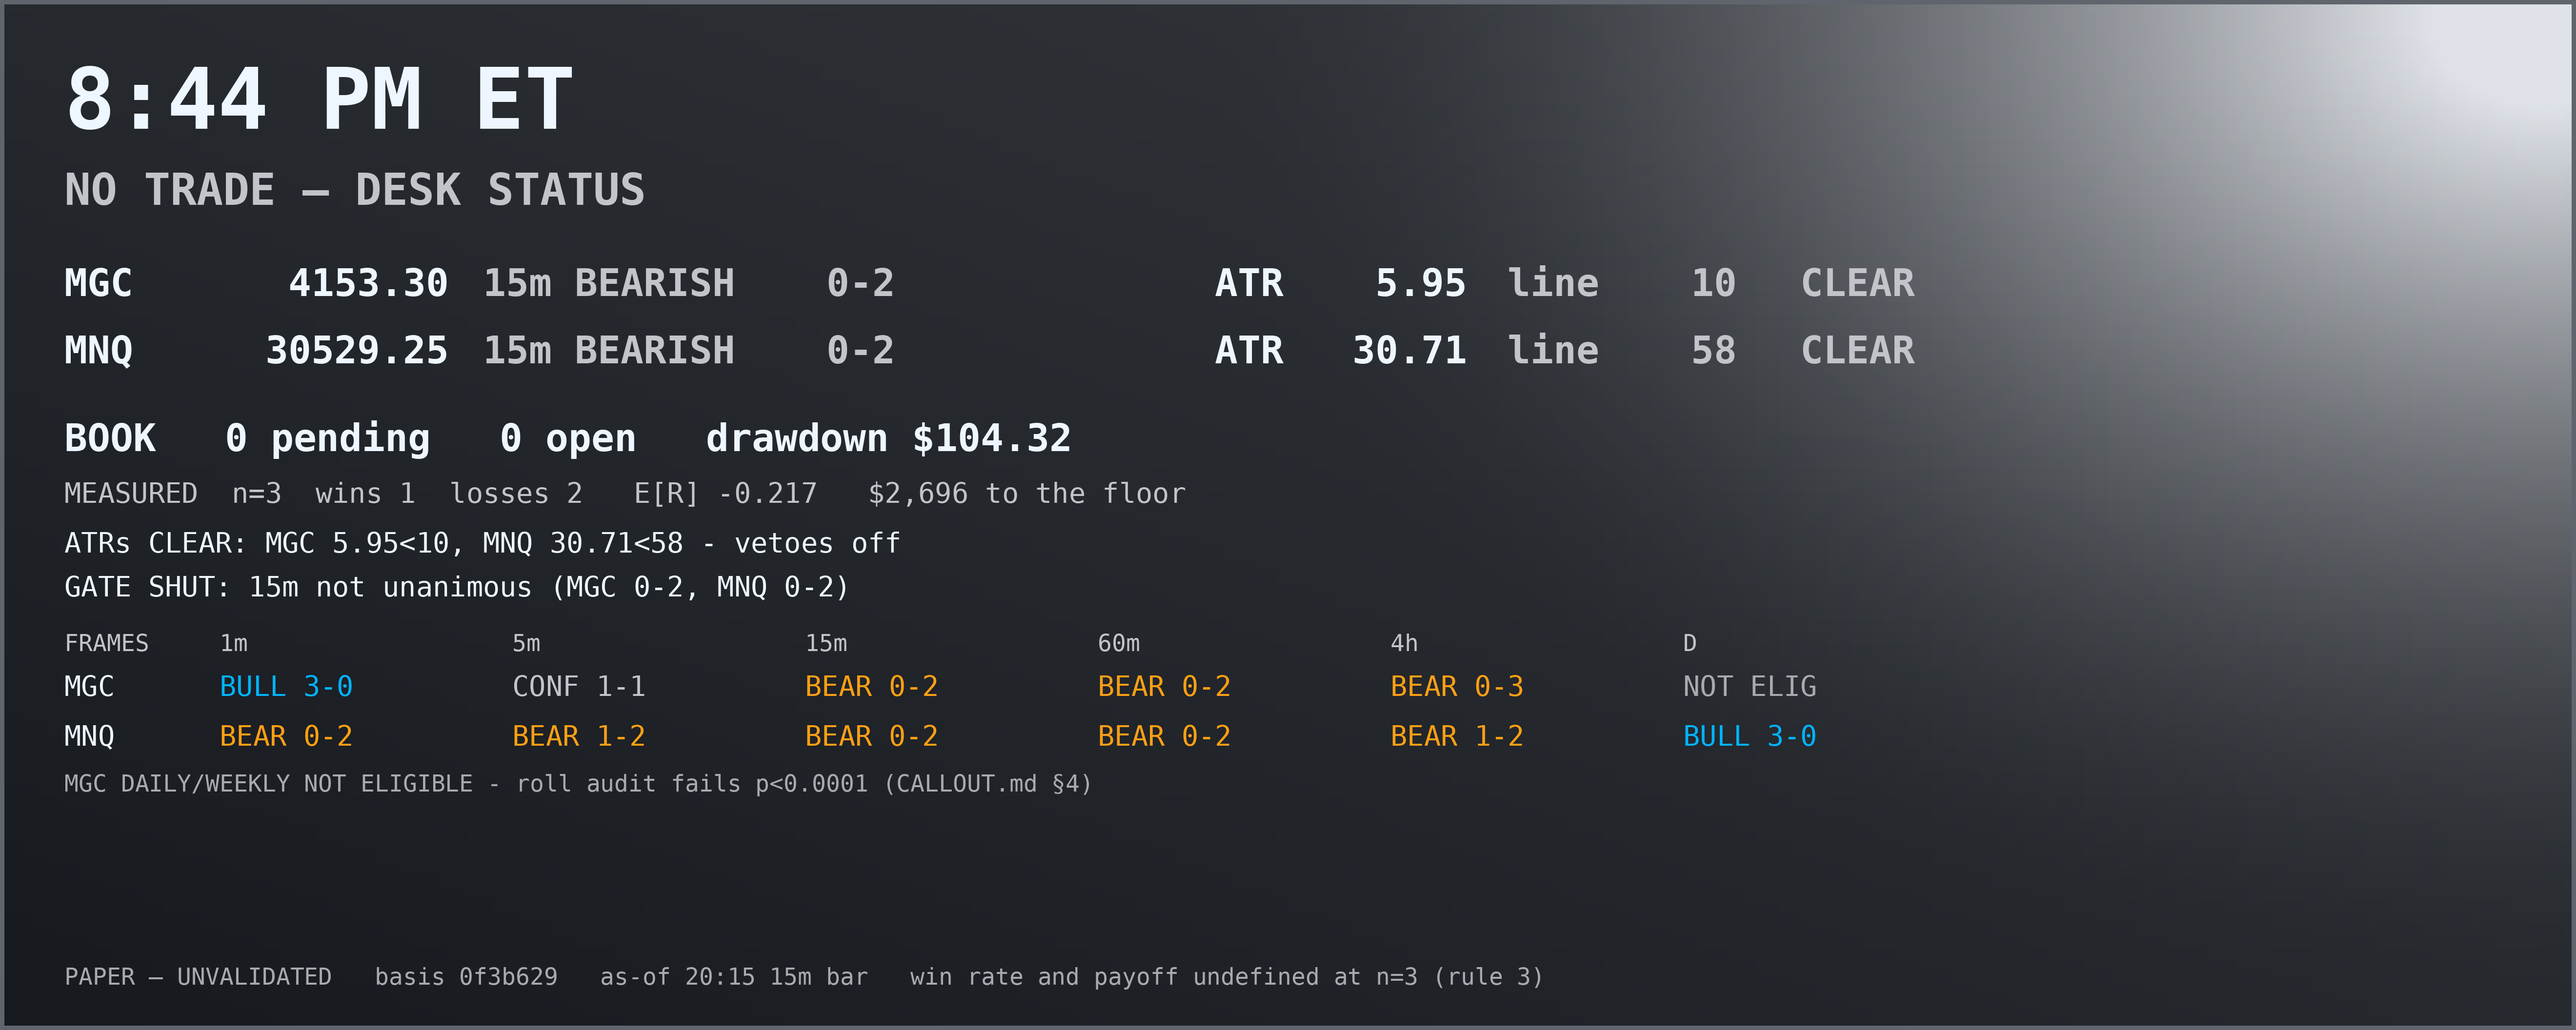
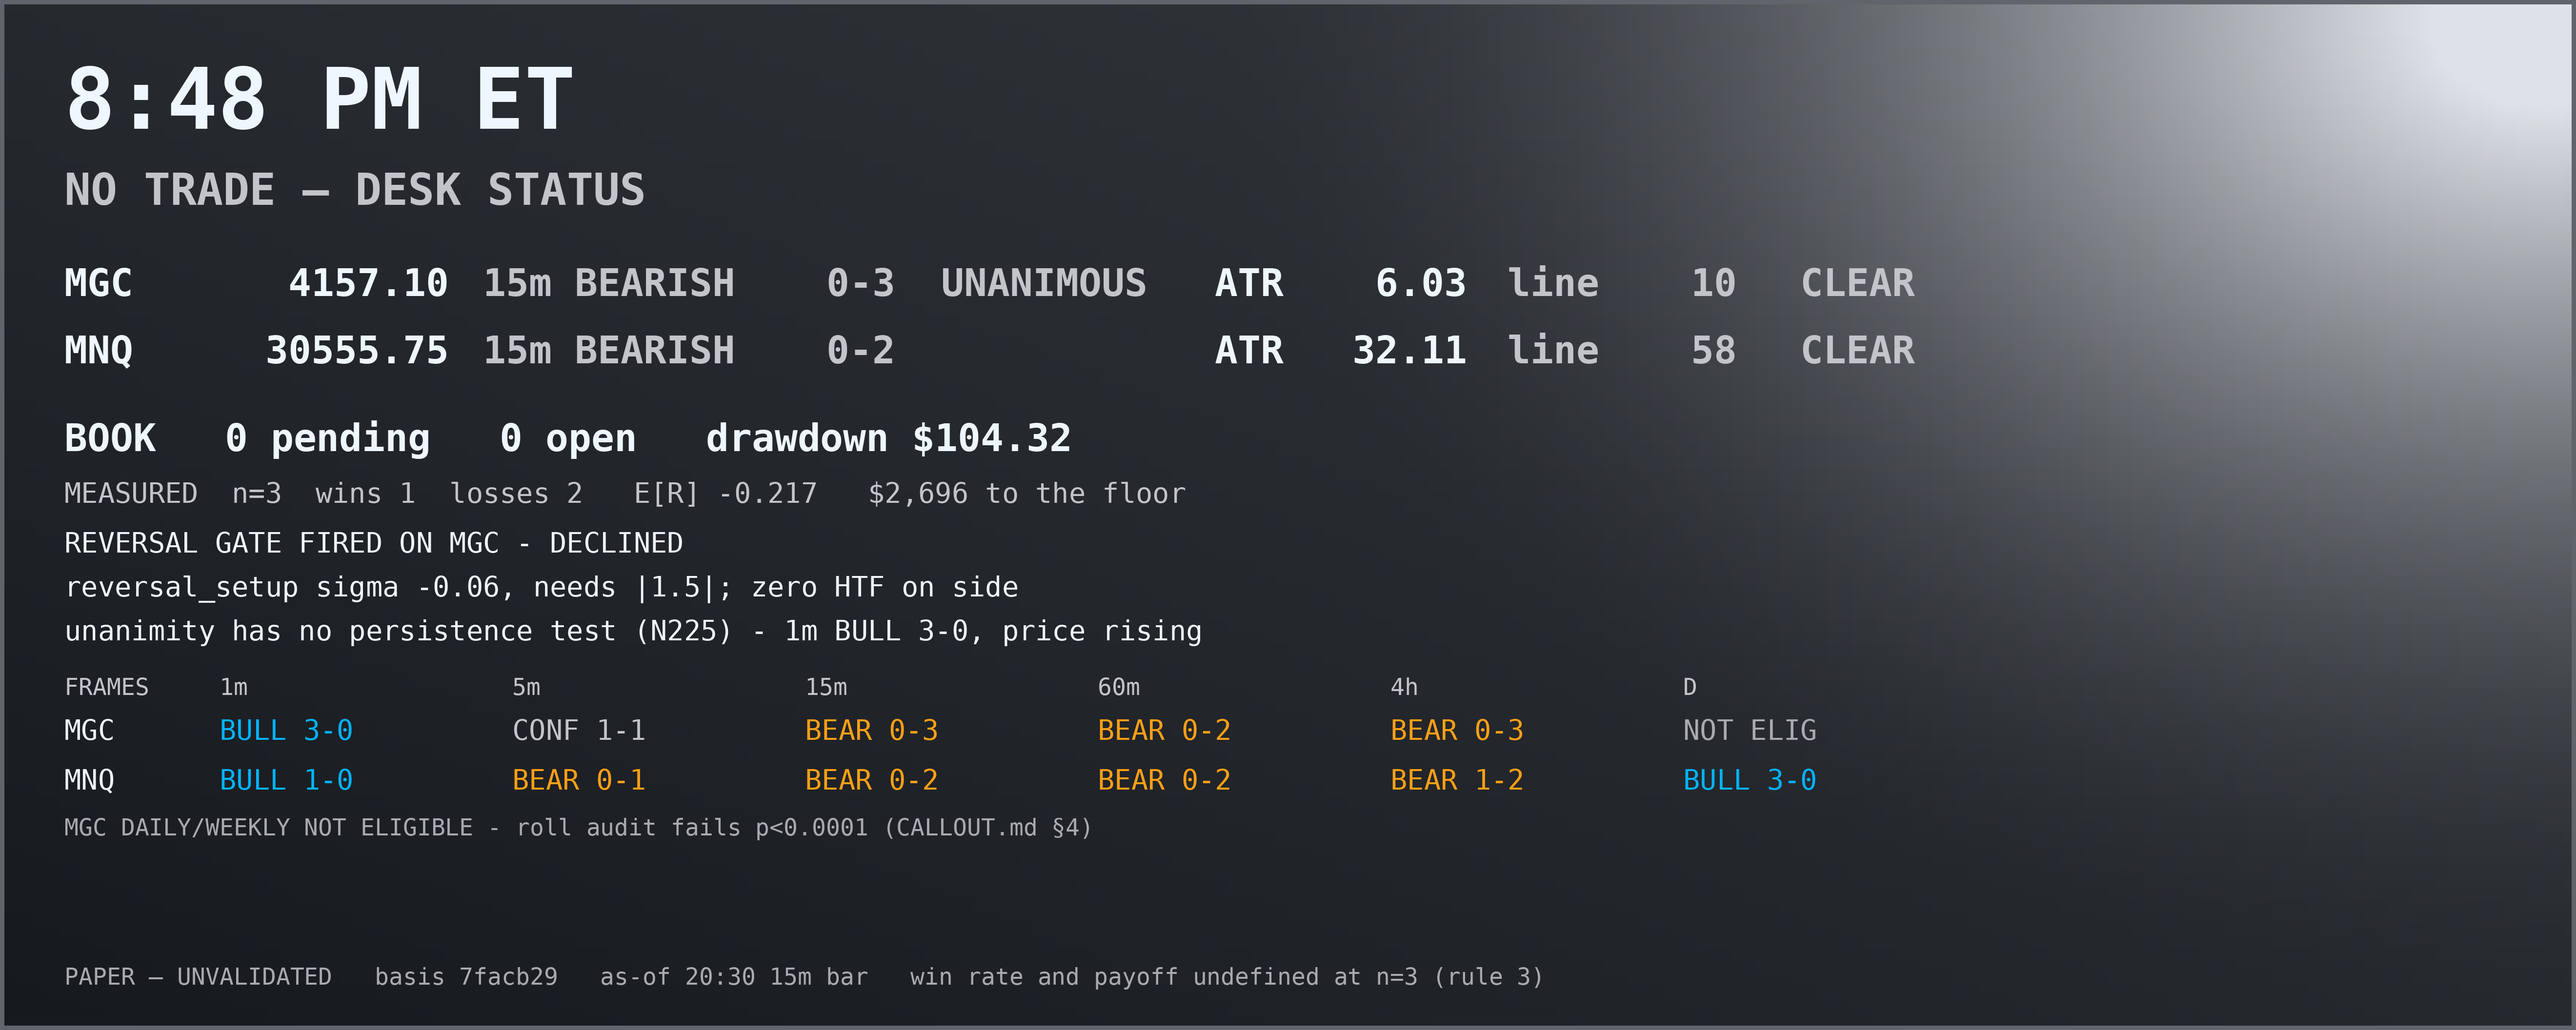
CALL: 20:46 — MGC reversal gate fired, DECLINED; N225 unanimity has no persistence test
Claude-Session: https://claude.ai/code/session_01EE6PFk7fGa2tM4KP6dpfWD

diff --git a/workspace/paper/CALL/NOTES.md b/workspace/paper/CALL/NOTES.md
@@ -8285,3 +8285,53 @@ this environment, so **every MAE here is a lower bound and every HEAT is an unde
 HEAT of 0.95 could have been a stop touch in reality. HEAT therefore never argues a stop was "not
 quite" hit — `resolve.py` decides that from bars and remains the only thing permitted to write an
 outcome.
+
+# N225 — the reversal gate fired on MGC and I declined it: unanimity has no persistence requirement
+
+At 20:46 ET `regime.py` printed `>>> REVERSAL CALLED: BEARISH (was BULLISH), held 21 checks,
+agreeing frames [60, 240]` for MGC. All four coded conditions of `reversal()` held. I did not
+register a plan, and the reason is a defect in the gate rather than a feeling about the tape.
+
+**Condition 3 measures the persistence of the HEADLINE. Condition 2 measures the unanimity of the
+TALLY. Nothing measures the persistence of the unanimity.** `_history()` stores only the headline
+string (`{"15": "BEARISH"}`) — the 0-2 / 0-3 tally is never written. So `held` counts how long the
+headline has read BEARISH, which on MGC was **31 minutes** (continuously BEARISH since 00:15:26Z,
+last differing headline CONFLICTED at 00:14:17Z, and the BULLISH it claims to reverse from is older
+still). The call did not fire because something turned at 20:46. It fired because the tally crossed
+0-2 → 0-3 for the first time, and the persistence test had been pre-satisfied half an hour earlier
+by a different condition.
+
+The composite therefore reads "a sign change that held" when what it means is "a sign change that
+held, plus unanimity that may be one bar old." A first-unanimous-bar call is exactly what condition
+3 was written to prevent, and on this sequence it passed straight through it.
+
+**What the tape was doing while the gate matured.** Over the four checks before the call, MGC went
+4149.50 → 4153.70 → 4153.30 → 4157.10, location 12.9% → 28.1%, the 1m to BULLISH 3-0 unanimous and
+the 5m from BEARISH 0-2 to CONFLICTED. The 15m trend component held BEAR by **1.28 points**
+(4157.10 against EMA20 4158.38) and the same bar's **high of 4158.70 was already above that EMA**.
+So the unanimity that fired the call was intrabar-false at the moment it was printed, and a short
+taken on it would have been a short into a rising tape one tick from losing its own trend
+component.
+
+**`reversal_setup()` settles it, and this is why the procedure keeps the two objects apart.** MGC
+sigma is **−0.06** — dead on the 20-bar 15m mean, against the |1.5| the market test requires — with
+**zero** higher frames on the reversal's side. A reversal needs something to revert *from*; a market
+sitting exactly at its mean offers nothing. The indicator flipped; the market did not turn. That
+distinction is the whole content of the procedure's section on this, and tonight is the first time
+it has actually cost a call rather than illustrated one.
+
+MNQ, for contrast, failed the same test at sigma −1.01 but **with DAILY and WEEKLY support** — one
+condition short rather than two, and short on extension rather than on structure. If either symbol
+produces a genuine setup this evening it is more likely that one.
+
+**Not fixed mid-session.** Recording the tally in `bias_history.jsonl` and requiring unanimity to
+hold two checks is the obvious repair, and it would have suppressed tonight's call. I am not
+installing it while a call it would have blocked is on the table — that is changing the rule to
+ratify the decision I just made. It goes to the parent session with the rest, and it is now ahead
+of `swings()` as the load-bearing item, because this one fires trades rather than mislabelling them.
+
+**The honest cost accounting.** UPPER BOUND: if MGC falls from 4157.10 the declined short is
+forgone profit, and I will measure it at the next hourly rather than assume it. MARGINAL: nothing —
+`reversal_setup()` failing means no plan could have carried a market-structure justification, so
+the veto cost is zero against the desk's own standard for a confident reversal. REALIZED: $0.00,
+the book is flat.

diff --git a/workspace/paper/CALL/DECISIONS.md b/workspace/paper/CALL/DECISIONS.md
@@ -86,3 +86,4 @@ card that check.
 **Row 6 is worth keeping visible.** Fixing the resolver *added* a loss to my own record. A
 change that can only make my numbers worse is the only kind I can make mid-session without
 suspicion, and it is the shape every future change should have.
+| 29 | 20:46 | **DECLINED a fired reversal gate.** `regime.py` called MGC BEARISH — all four `reversal()` conditions held, 60m and 4h agreeing, ATR 6.03 vs 10 clear, N196 not binding (price 10.80 ABOVE the new pivot low, so no extreme was being broken). No plan registered | **the gate is defectively composed** (N225): condition 3 tests headline persistence, condition 2 tests tally unanimity, and nothing tests persistence OF the unanimity. `held 21` measured a headline BEARISH for 31 minutes; the call fired only because the tally first hit 0-3. A first-unanimous-bar call passed straight through the condition written to stop it | `reversal_setup()` — the object the procedure says is what the owner means by a confident reversal — returns **sigma −0.06** on MGC, dead on the 20-bar mean, with zero higher frames on side. Nothing to revert from. The indicator flipped; the market did not turn | the unanimity was **intrabar-false when printed**: trend held BEAR by 1.28pt while that same bar's high 4158.70 was already above EMA20 4158.38. Short end going the other way — 1m BULLISH 3-0 unanimous, 5m BEARISH→CONFLICTED, price 4149.50→4157.10 across four checks. The tally-persistence fix is deferred, NOT installed, because installing it now would be rewriting the rule to ratify this decision |
